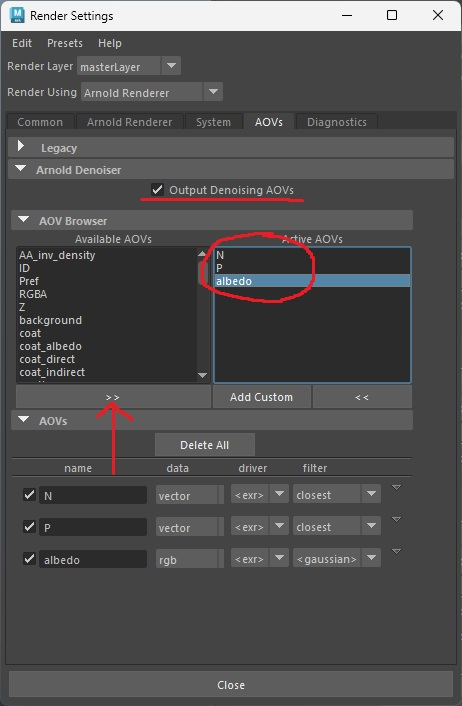
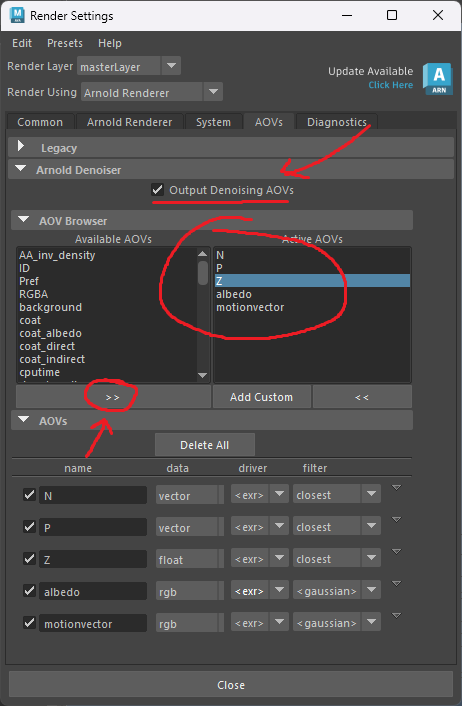
aov update

diff --git a/ucbugg-site/src/pages/labExport.js b/ucbugg-site/src/pages/labExport.js
@@ -1221,6 +1221,7 @@ import _interpret_footage_locationsrc_assets_labs_Post_Production_rendering_arno
 import _interpret_footage_settings1src_assets_labs_Post_Production_rendering_arnoldjpg from '../assets/labs/Post Production/rendering arnold/interpret_footage_settings1.jpg'
 import _interpret_footage_settings2src_assets_labs_Post_Production_rendering_arnoldpng from '../assets/labs/Post Production/rendering arnold/interpret_footage_settings2.png'
 import _motion_blur_settings_3src_assets_labs_Post_Production_rendering_arnoldpng from '../assets/labs/Post Production/rendering arnold/motion_blur_settings_3.png'
+import _motion_blur_settings_4src_assets_labs_Post_Production_rendering_arnoldpng from '../assets/labs/Post Production/rendering arnold/motion_blur_settings_4.png'
 import _Noice_Locationsrc_assets_labs_Post_Production_rendering_arnoldjpg from '../assets/labs/Post Production/rendering arnold/Noice_Location.jpg'
 import _Noice_Settingssrc_assets_labs_Post_Production_rendering_arnoldjpg from '../assets/labs/Post Production/rendering arnold/Noice_Settings.jpg'
 import _output_module_settingssrc_assets_labs_Post_Production_rendering_arnoldjpg from '../assets/labs/Post Production/rendering arnold/output_module_settings.jpg'
@@ -3088,6 +3089,7 @@ const data = {
         "interpret_footage_settings1.jpg": _interpret_footage_settings1src_assets_labs_Post_Production_rendering_arnoldjpg,
         "interpret_footage_settings2.png": _interpret_footage_settings2src_assets_labs_Post_Production_rendering_arnoldpng,
         "motion_blur_settings_3.png": _motion_blur_settings_3src_assets_labs_Post_Production_rendering_arnoldpng,
+        "motion_blur_settings_4.png": _motion_blur_settings_4src_assets_labs_Post_Production_rendering_arnoldpng,
         "Noice_Location.jpg": _Noice_Locationsrc_assets_labs_Post_Production_rendering_arnoldjpg,
         "Noice_Settings.jpg": _Noice_Settingssrc_assets_labs_Post_Production_rendering_arnoldjpg,
         "output_module_settings.jpg": _output_module_settingssrc_assets_labs_Post_Production_rendering_arnoldjpg,

diff --git a/ucbugg-site/src/assets/labs/Post Production/rendering arnold/rendering - arnold.md b/ucbugg-site/src/assets/labs/Post Production/rendering arnold/rendering - arnold.md
@@ -106,6 +106,10 @@ Next, you want to navigate to the AOVs tab.
 
 Now, you want to go to the **AOV Browser** and among the Available AOVs menu, find and add N (Normal), P (Position), and albedo. These AOVs will help the Arnold Denoiser in denoising your image. Also, make sure you check Output Denoising AOVs at the top. To add AOVs, simply select the respective AOV from the left under Available AOVs, and click the arrow to move it to the right.
 
+The motionvector and Z (Z-Depth) AOVs are also helpful for if you want to do motion blur in post and/or depth of field in post respectively. If you choose to enable the motionvector AOV and want to do motion blur in post, then make sure to check Instantaneous Shutter in the motion blur settings in the Arnold Renderer tab.
+
+![](motion_blur_settings_4.png)
+
 ## Time to actually render!
 
 After exiting the Render Settings menu, go to Render -> Render Sequence and click the option box.
